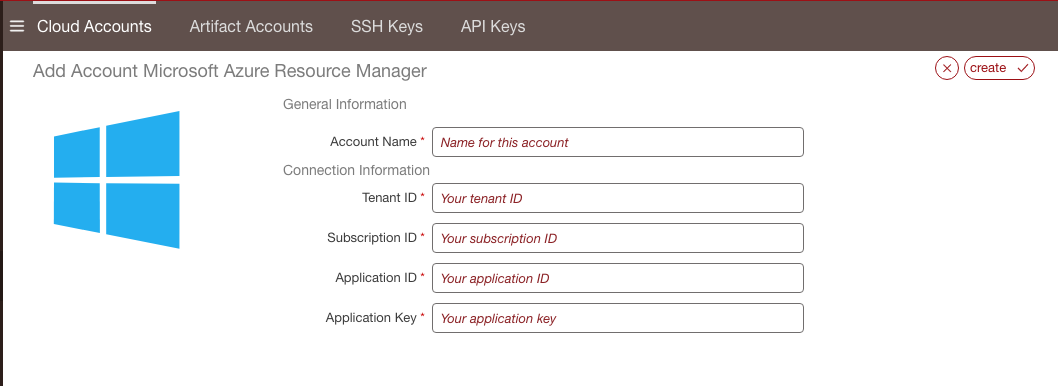
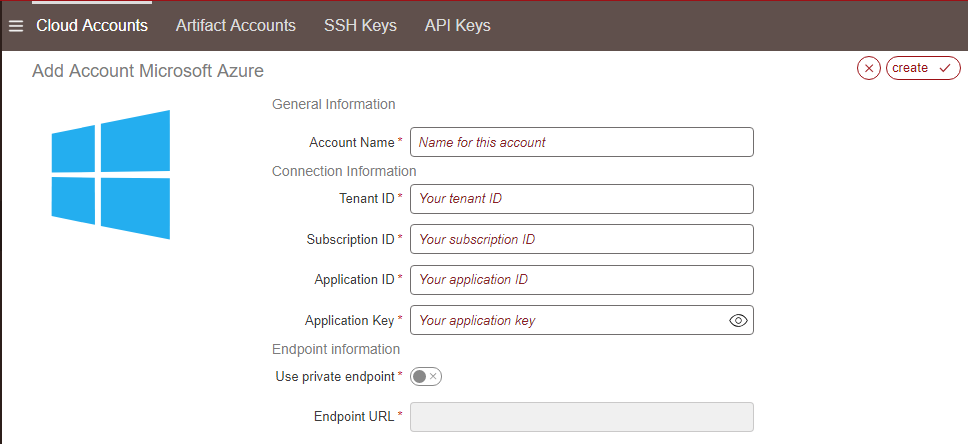
add info about publish for Azure Stack

diff --git a/end-user/en/source/pages/credentials/user-cloud-accounts.rst b/end-user/en/source/pages/credentials/user-cloud-accounts.rst
@@ -33,6 +33,8 @@ If you want to publish images to Microsoft Azure, you must first set up the corr
 	4. Retrieve the tenant ID which you will need to enter in UForge credentials (as described in `official Microsoft Azure documentation related to tenant ID retrieval <https://docs.microsoft.com/en-us/azure/azure-resource-manager/resource-group-create-service-principal-portal#get-tenant-id>`_). 
 	5. Assign the ``contributor`` role to the application (as described in `official Microsoft Azure documentation related to application role assignation <https://docs.microsoft.com/en-us/azure/azure-resource-manager/resource-group-create-service-principal-portal#assign-application-to-role>`_).
 
+	.. note:: The above steps are also required when setting up a Microsoft Azure account for Azure Stack.
+
 Then you will need to fill in your credential information in UForge. To do so:
 
 	1. Go to the ``Credentials`` tab in the left-hand sidebar.
@@ -40,6 +42,8 @@ Then you will need to fill in your credential information in UForge. To do so:
 	3. Select ``Microsoft Azure`` from the ``Add account`` drop-down menu at the top right.
 
 	.. image:: /images/cloud-account-azure.png
+
+.. note:: When creating a cloud account for Azure Stack, it is also necessary to turn on ``Use private endpoint``, and in ``Endpoint URL`` input the Azure Stack's Resource Manager Endpoint. For example: ``https://management.local.azurestack.external``.
 
 .. _windows-aws-s3:
 

diff --git a/admin/en/source/pages/config/config-azure-stack.rst b/admin/en/source/pages/config/config-azure-stack.rst
@@ -1,0 +1,24 @@
+.. Copyright 2019 FUJITSU LIMITED
+
+.. _config-azure-stack:
+
+Additional Configuration for Azure Stack
+-----------------------------------------
+
+If Azure Stack is configured to use self-signed certificates, it is necessary to import Azure Stack's certificate into UForge server so it can be allowed access to Azure Stack.
+
+To do this, follow the steps below:
+
+	1. On Azure Stack's host, open the Certificate Manager (certmgr.msc)
+
+	2. Go to ``Trusted Root Certification``, select ``AzureStackSelfSignedRootCert``, export the file as ``DER encoded binary X.509 (.CER)`` and copy it to the UForge server.
+
+	3. To import the certificate to the UForge server, execute the following commands:
+
+		.. code-block:: shell
+
+			$ keytool -import -alias AzureStackSelfSignedRootCert -keystore /usr/java/jdk1.8.0_131/jre/lib/security/cacerts -file <certificate_path>
+			Enter keystore password: changeit 
+			Trust this certificate? [no]: yes 
+
+	.. note:: Currently, UForge only supports the Azure Active Directory (Azure AD) authentication method.

diff --git a/end-user/en/source/pages/generating/appliance-publish.rst b/end-user/en/source/pages/generating/appliance-publish.rst
@@ -54,6 +54,8 @@ In order to publish a machine image to a cloud environment or container, you mus
 
 	.. note:: When you publish an image to VMware, the result will be a template and not a virtual machine.
 
+	.. note:: When you publish an image to Azure Stack, the result will be a VHD file on the specified BLOB. Virtual Machines can then be created from these VHD files either manually or by using scripts.
+
 	.. warning:: If your Fujitsu K5 publish failed, there may be data published to cloud, incurring costs, even if not visible on your cloud account. You should run a cleanup manually. Refer to Chapter 2.7 Object storage of the `FUJITSU Cloud Service K5 IaaS API Reference (Foundation Service) guide <https://k5-doc.jp-east-1.paas.cloud.global.fujitsu.com/doc/en/iaas/document/k5-iaas-api-reference-foundation-service.pdf>`_
 
 .. _publish-win-to-rh:

diff --git a/end-user/en/source/pages/deploying/deploy-machine-image.rst b/end-user/en/source/pages/deploying/deploy-machine-image.rst
@@ -5,7 +5,7 @@
 Deploying a Machine Image
 --------------------------
 
-.. note:: Currently, Linux machine images published on Amazon, OpenStack, Cloudstack and Microsoft Azure can be deployed from UForge. You can deploy a Windows based appliance only to Amazon and Azure.
+.. note:: Currently, Linux machine images published on Amazon, OpenStack, Cloudstack and Microsoft Azure can be deployed from UForge. You can deploy a Windows based appliance only to Amazon and Azure. Deploy for Azure Stack is not supported.
 
 You can only deploy a machine image if you have AMP installed. For more information on installing AMP, refer to the official `Cloudsoft AMP documentation <https://docs.cloudsoft.io/>`_
 

diff --git a/admin/en/source/pages/config/further-config-overview.rst b/admin/en/source/pages/config/further-config-overview.rst
@@ -28,4 +28,5 @@ This section assumes that you have completed the installation of your UForge pla
    proprietary-pkg
    populate-iso
    config-amp
+   config-azure-stack
    config-secretmanager
